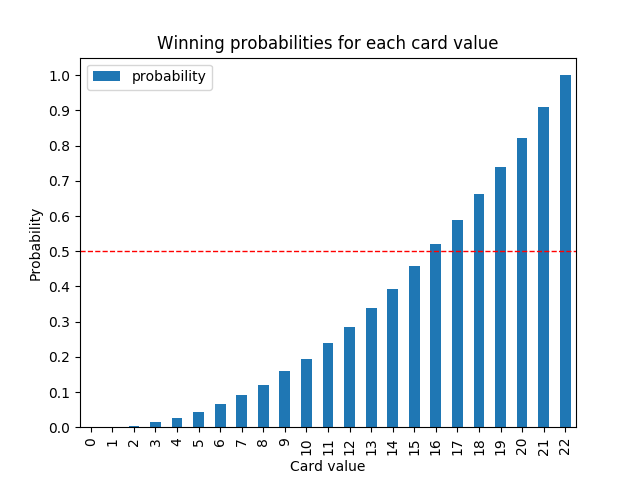
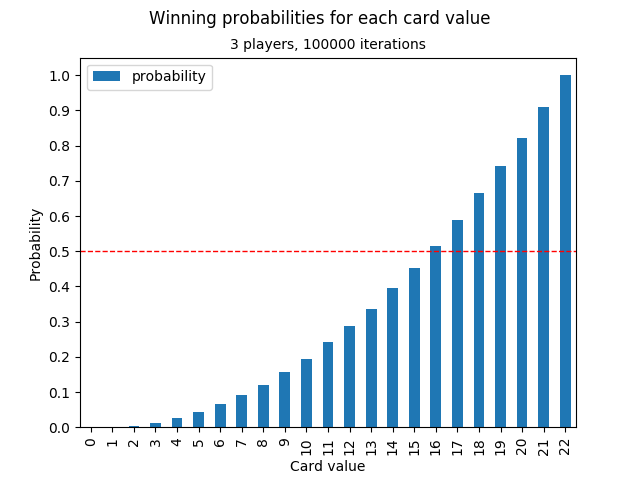
solution analytique

Changed region(s): [[0.2188, 0.0, 0.7812, 0.125]]

diff --git a/_layouts/default.html b/_layouts/default.html
@@ -17,6 +17,22 @@
 {% endif %}
 {% if site.comments.disqus %}<script src="//{{ site.comments.disqus }}.disqus.com/embed.js" async></script>{% endif %}
 {% if site.comments.isso %}<script data-isso="http://{{ site.comments.isso }}" src="//{{ site.comments.isso }}/js/embed.min.js"></script>{% endif %}
+<script type="text/x-mathjax-config">
+MathJax.Hub.Config({
+  tex2jax: {
+    inlineMath: [['$','$'], ['\\(','\\)']],
+    displayMath: [ ['$$','$$'], ["\\[","\\]"] ],
+    processEscapes: true
+  }
+});
+</script>
+<style type="text/css">
+.MathJax .mi, .MathJax .mo {
+    color: inherit;
+}
+</style>
+<script src="https://cdnjs.cloudflare.com/ajax/libs/mathjax/2.7.0/MathJax.js?config=TeX-AMS-MML_HTMLorMML" type="text/javascript"></script>
+
 
 <body class="{% if site.dark_theme %}dark{% else %}light{% endif %}">
 

diff --git a/_posts/2020-05-04-monte-carlo-tarot-africain.md b/_posts/2020-05-04-monte-carlo-tarot-africain.md
@@ -165,6 +165,65 @@ C'est la [loi des grands nombres](https://fr.wikipedia.org/wiki/Loi_des_grands_n
 
 On peut ainsi calculer l'[intervalle de confiance](https://fr.wikipedia.org/wiki/Intervalle_de_confiance). Tant qu'on atteint pas le degré de confiance recherché, on augmente la taille de l'échantillon.
 
+## Et une solution analytique ?
+
+C'est pas hyper carré, mais dans l'esprit on peut démontrer la relation par récurrence.
+
+### À 2 joueurs.
+
+Supposons que je tire 2 cartes $c_{1}$ et $c_{2}$, $c_{1} \in [0;22]$, $c_{2} \in [0;22] \setminus c_{1}$
+
+$$P(\text{victoire de c1 à 2 joueurs}) = P(c_{1} > c_{2})
+ = \frac{c_{1}}{22}
+$$
+
+### À 3 joueurs.
+
+C'est pareil, on tire 3 cartes cartes $c_{1}$, $c_{2}$, $c_{3}$, $c_{1} \in [0;22]$, $c_{2} \in [0;22] \setminus c_{1}$, $c_{3} \in [0;22] \setminus [c_{1}, c_{2}]$
+
+$$\begin{eqnarray}
+P(\text{victoire de c1 à 3 joueurs}) &=& P(c_{1} > c_{2} \cap c_{1} > c_{3})
+ &=& P(c_{1} > c_{2}) \times P(c_{1} > c_{3})
+ &=& \frac{c_{1}}{22} \times \frac{c_{1}}{22}
+\end{eqnarray}$$
+
+### À n joueurs
+
+On peut généraliser la relation entre *P(victoire de victoire de c1 à n+1 joueurs)* et *P(victoire de victoire de c1 à n joueurs)*, et on obtient:
+
+$$\begin{eqnarray}
+P(\text{victoire de c1 à n joueurs}) &=& P(\underset{i \ne 1}{\cap}{c_{1} > c_{i}})
+ &=& (\frac{c_{1}}{22})^{n-1}
+\end{eqnarray}$$
+
+C'était pas si compliqué et prendre une feuille avant de me lancer dans tout ce bazar m'aurait évité d'écrire 1600 mots sur le sujet. On a sensiblement les mêmes résultats que précedemment.
+
+![](/assets/pictures/monte-carlo-tarot/last-analytic-p-3.png)
+![](/assets/pictures/monte-carlo-tarot/last-analytic-p-4.png)
+![](/assets/pictures/monte-carlo-tarot/last-analytic-p-5.png)
+
+### Allez, du code
+
+Le code est presqu'identique au précédent, en remplaçant la partie du milieu par un calcul bien plus court.
+
+```python
+# 
+nb_players = args['players']
+nb_cards = 22
+
+wins = [0]*(nb_cards+1)
+# we do not start at 0 in order to handle the boundary conditions
+for card_value in range(nb_players-1, nb_cards+1):
+    wins[card_value] = (float(card_value)/22.0) ** (nb_players - 1)
+```
+
+On génère les graphes comme avant:
+
+```bash
+python last-analytic.py -p 5
+```
+
+
 ## Pour aller plus loin
 
 Parmi les conférences qui m'ont marqué, j'ai beaucoup aimé [Statistics for Hackers](https://www.youtube.com/watch?v=L5GVOFAYi8k) (40mn) ou, plus court, [Statistics without the agonizing pain](https://www.youtube.com/watch?v=5Dnw46eC-0o) (10mn) dont les titres sont explicites: il est question de faire des statistiques avec du code, sans s'embêter avec tout le (nécessaire et expliquable) formalisme mathématique. En raisonnant un peu, dans plein de situations, on peut facilement s'en sortir avec quelques boucles. Ca ressemble à ce qu'on a fait, mais ils proposent des outils un peu différents.
